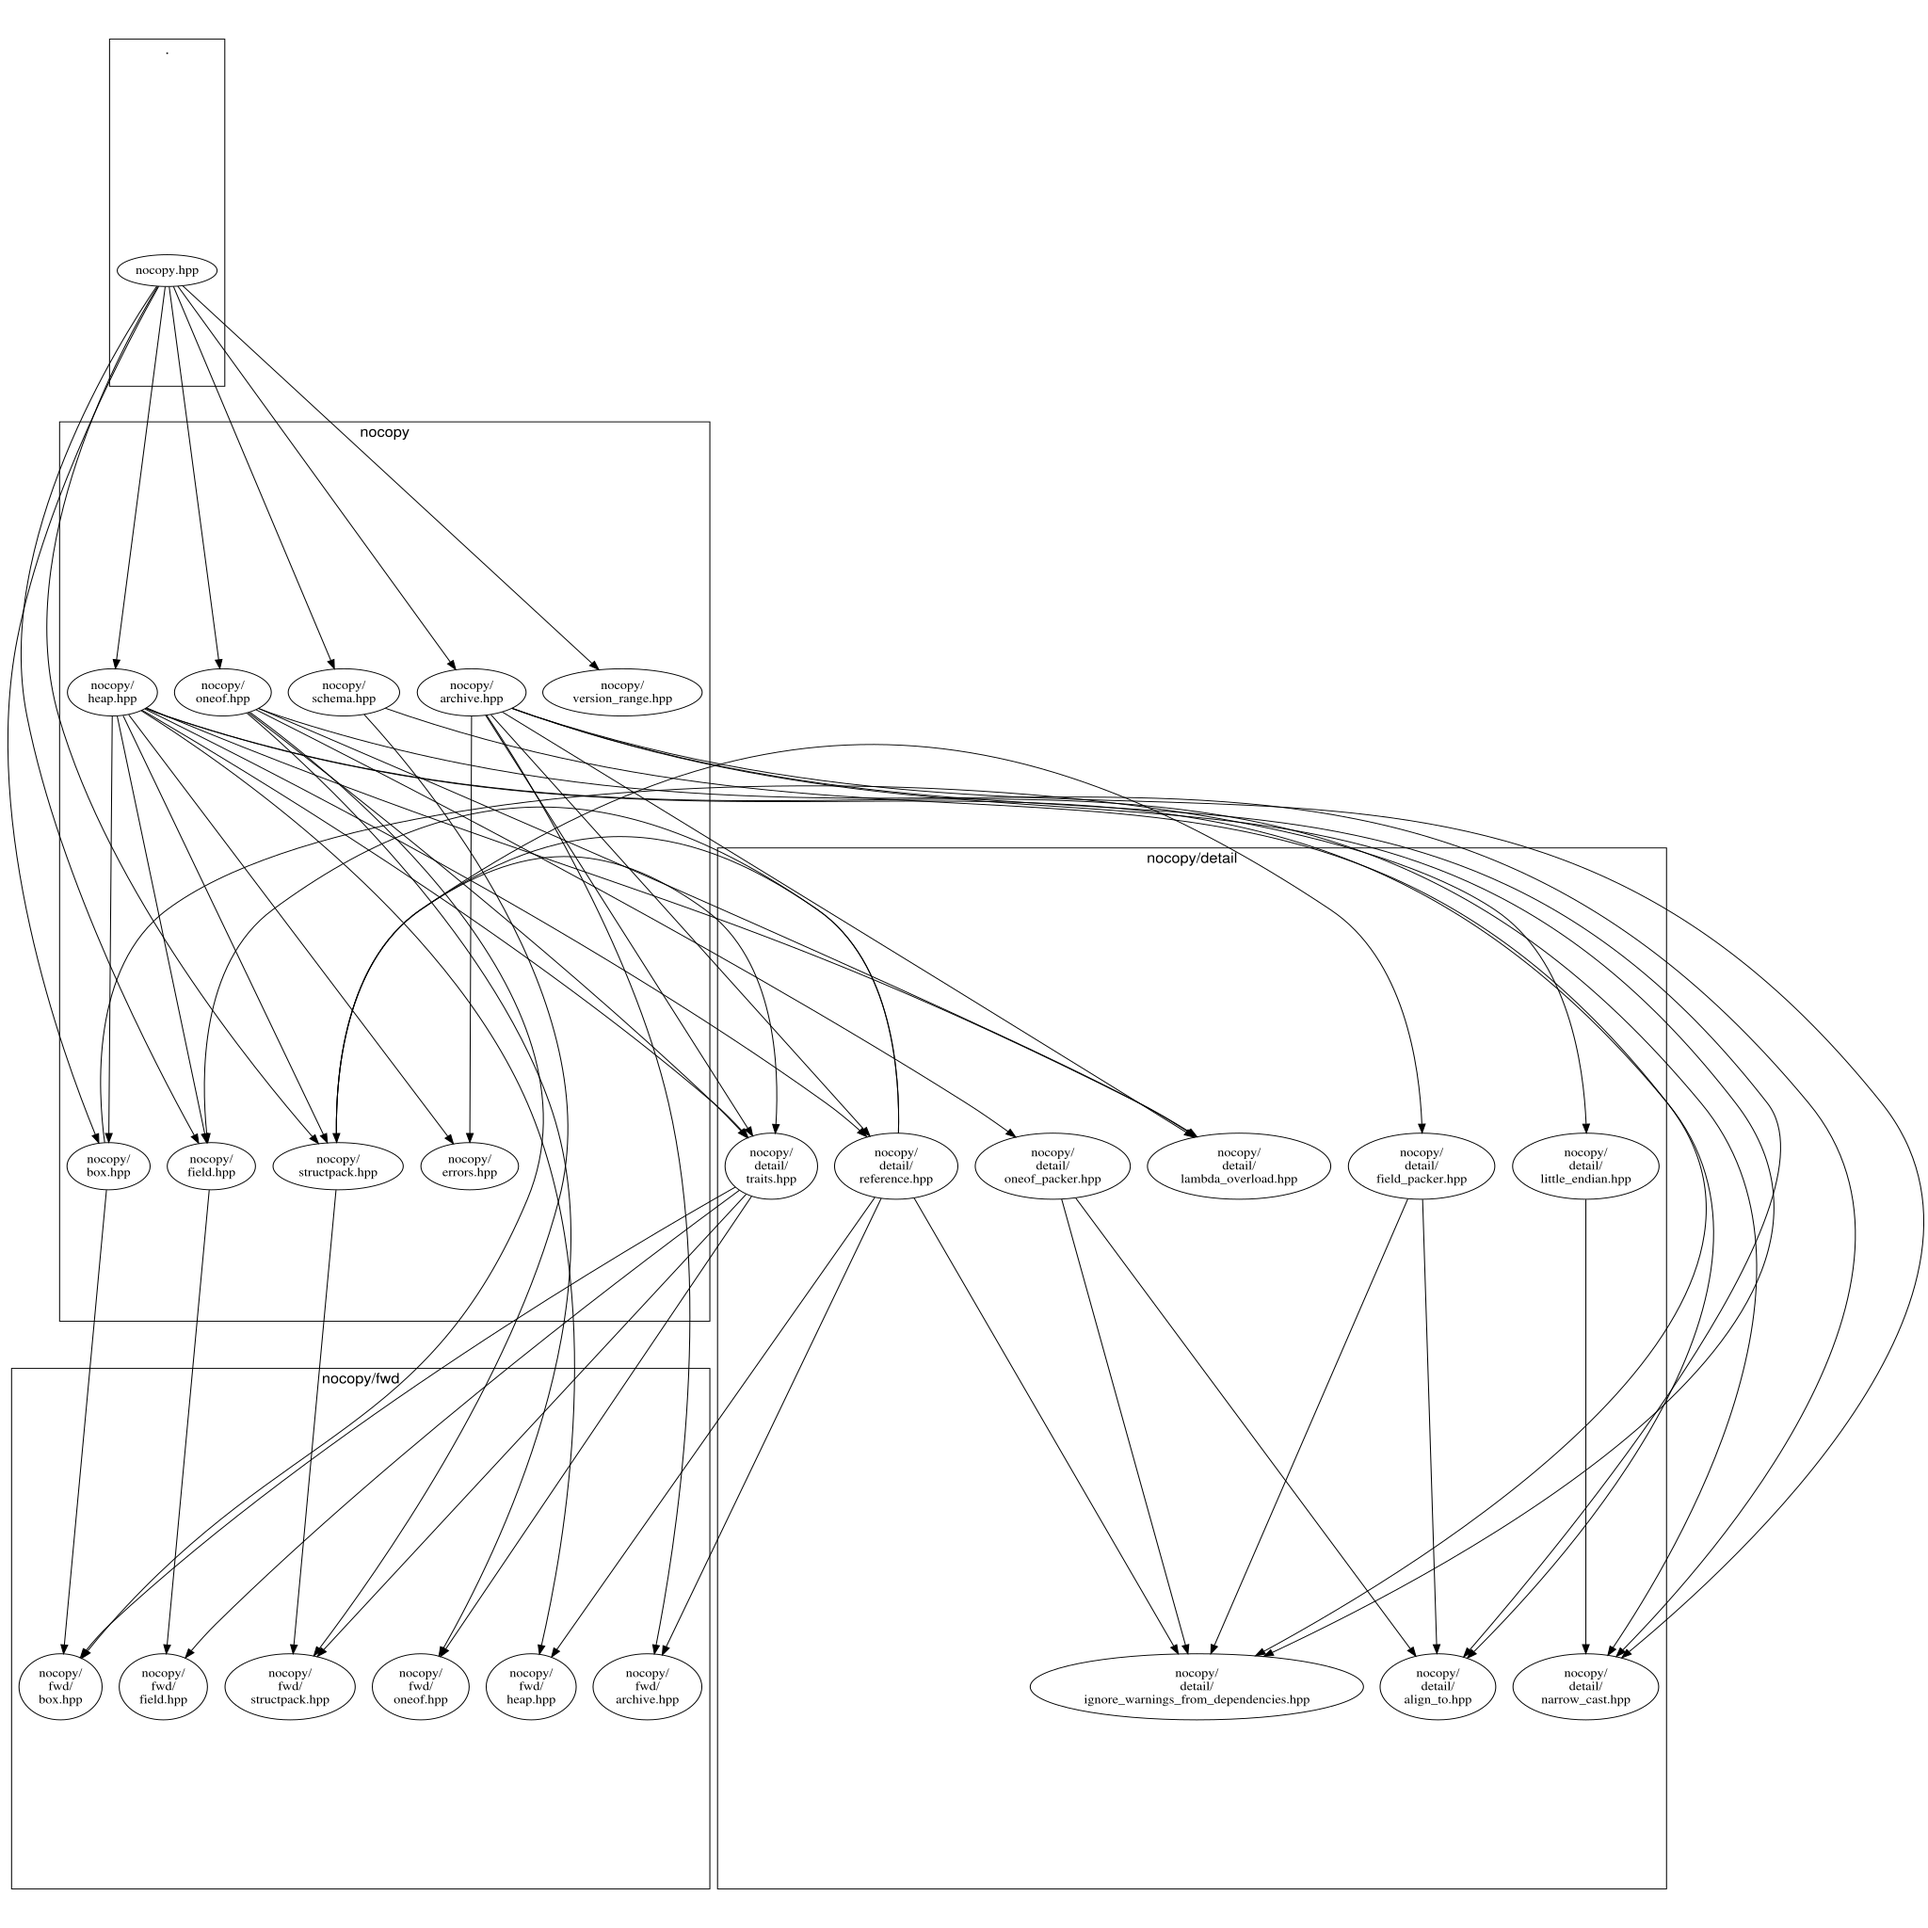
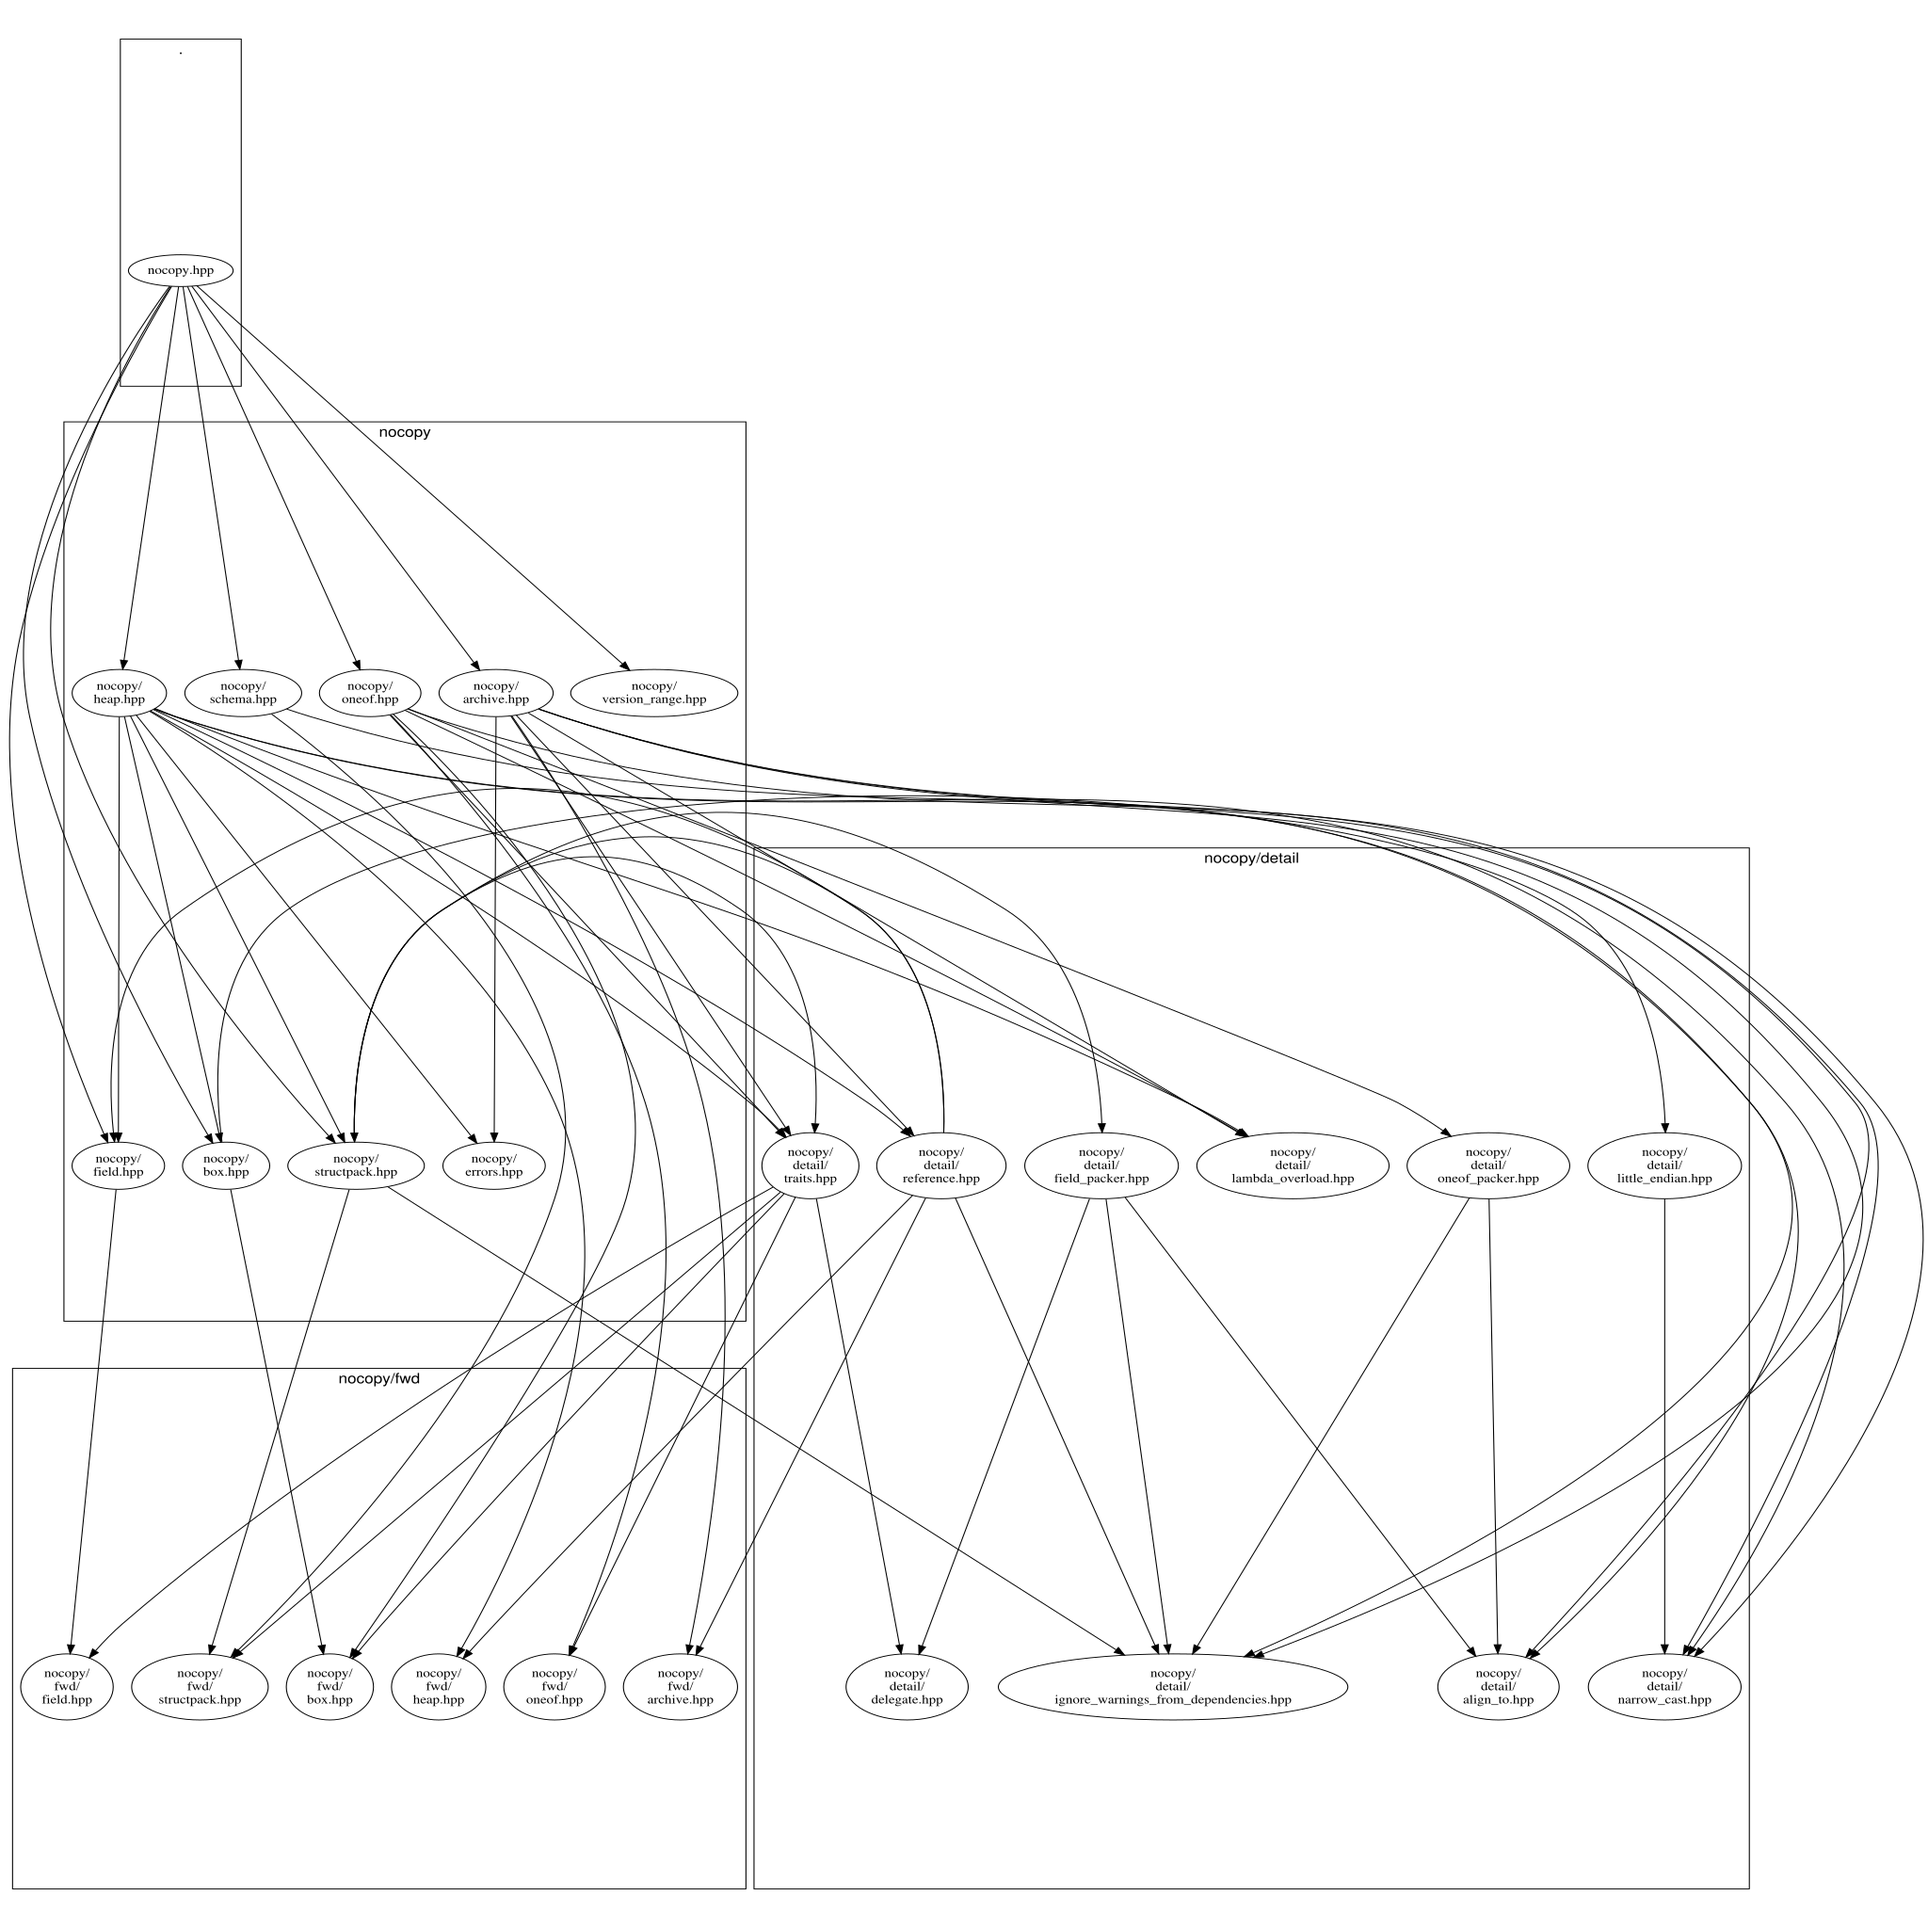
Dedicated delegate header

diff --git a/include/nocopy/detail/traits.hpp b/include/nocopy/detail/traits.hpp
@@ -1,6 +1,8 @@
 #ifndef UUID_B2554911_1DFB_4DEE_B5A3_ECF03B2DDABC
 #define UUID_B2554911_1DFB_4DEE_B5A3_ECF03B2DDABC
 
+#include <nocopy/detail/delegate.hpp>
+
 #include <nocopy/fwd/box.hpp>
 #include <nocopy/fwd/structpack.hpp>
 #include <nocopy/fwd/field.hpp>
@@ -62,23 +64,8 @@ namespace nocopy {
     using find_return_type_t = typename find_return_type<FieldType>::type;
 
     template <typename T>
-    struct check_exists { using type = void; };
-    template <typename T, typename = void>
-    struct custom_delegate_type { using type = T; };
-    template <typename T>
-    struct custom_delegate_type<
-      T, typename check_exists<typename T::delegate_type>::type
-    > {
-      static_assert(
-        sizeof(T) == sizeof(typename T::delegate_type)
-      , "delegate type must not add member data"
-      );
-      using type = typename T::delegate_type;
-    };
-
-    template <typename T>
     struct find_base_type {
-      using type = typename custom_delegate_type<T>::type;
+      using type = typename find_delegate<T>::type;
     };
     template <typename FieldType, std::size_t Count>
     struct find_base_type<array<FieldType, Count>> {

diff --git a/include/nocopy/detail/delegate.hpp b/include/nocopy/detail/delegate.hpp
@@ -1,0 +1,29 @@
+#ifndef UUID_A6E51180_138B_4B44_9FC7_C8BDD9F96A93
+#define UUID_A6E51180_138B_4B44_9FC7_C8BDD9F96A93
+
+namespace nocopy { namespace detail {
+  template <typename T>
+  struct check_exists { using type = void; };
+
+  template <typename Field, typename = void>
+  struct is_delegate : std::false_type {};
+  template <typename Field>
+  struct is_delegate<
+    Field, typename check_exists<typename Field::field_type::delegate_type>::type
+  > : std::true_type {};
+
+  template <typename T, typename = void>
+  struct find_delegate { using type = T; };
+  template <typename T>
+  struct find_delegate<
+    T, typename check_exists<typename T::delegate_type>::type
+  > {
+    static_assert(
+      sizeof(T) == sizeof(typename T::delegate_type)
+    , "delegate type must not add member data"
+    );
+    using type = typename T::delegate_type;
+  };
+}}
+
+#endif

diff --git a/include/nocopy/detail/field_packer.hpp b/include/nocopy/detail/field_packer.hpp
@@ -2,6 +2,7 @@
 #define UUID_68BDB6D9_BB11_4462_9187_4949324917AE
 
 #include <nocopy/detail/align_to.hpp>
+#include <nocopy/detail/delegate.hpp>
 
 #include <nocopy/detail/ignore_warnings_from_dependencies.hpp>
 BEGIN_IGNORE_WARNINGS_FROM_DEPENDENCIES
@@ -21,15 +22,6 @@ namespace nocopy { namespace detail {
   struct field_packer {
   private:
     static constexpr auto fields() { return hana::make_tuple(hana::type_c<Fields>...); }
-
-    template <typename T>
-    struct check_exists { using type = void; };
-    template <typename Field, typename = void>
-    struct is_delegate : std::false_type {};
-    template <typename Field>
-    struct is_delegate<
-      Field, typename check_exists<typename Field::field_type::delegate_type>::type
-    > : std::true_type {};
 
     struct find_delegates {
       template <typename T>
